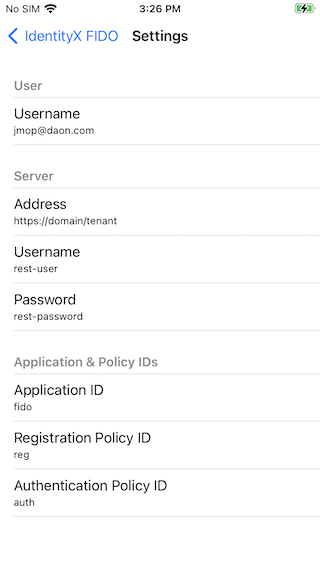
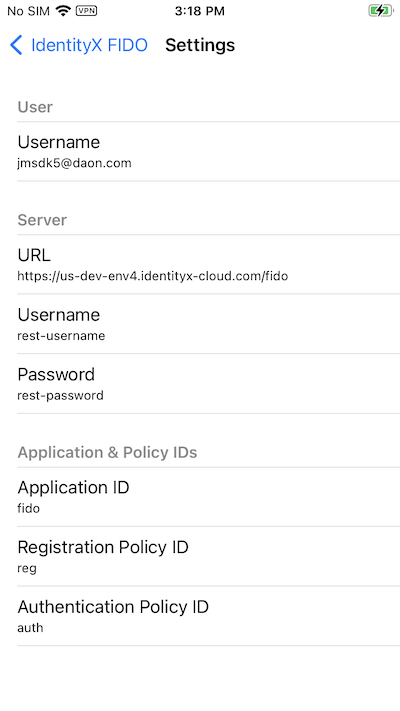
Sample: Update configuration details and screenshots

diff --git a/README.md b/README.md
@@ -21,9 +21,10 @@ The demo sample includes the following:
 ### SDK Demo 
 A sample that uses the IdentityX REST API to register and authenticate a user. The sample also provides an example of how to use the JavaScript-friendly API for easier integration with React and Cordova.
 
-The sample needs to know the IdentityX server URL, application identifier, and server credentials. The server credentials are used to authenticate the application with the IdentityX server. 
+The sample needs to know the IdentityX server URL (e.g. `https://domain/tenant`), application identifier, and server credentials. The server credentials are used to authenticate the application with the IdentityX server. 
 
 ![SDK Demo Settings](images/sdk-demo-config.png)
+![SDK Demo](images/sdk-demo.png)
 
 ## Swift Package
 Add your GitHub account to Xcode and add the xAuth FIDO SDK as a Swift Package.
